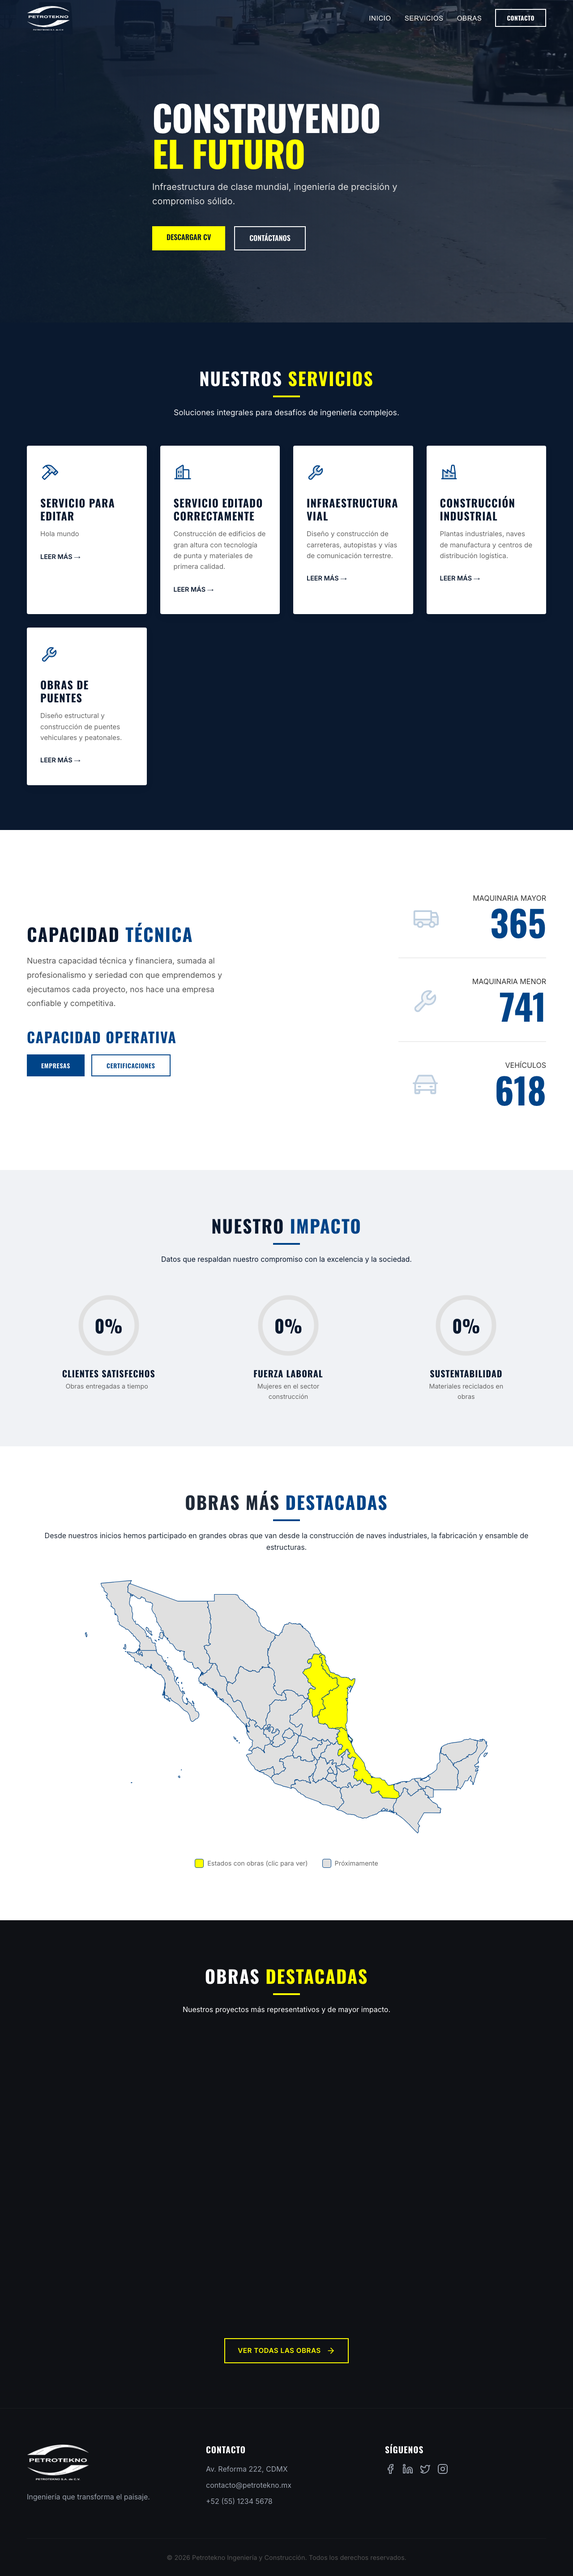
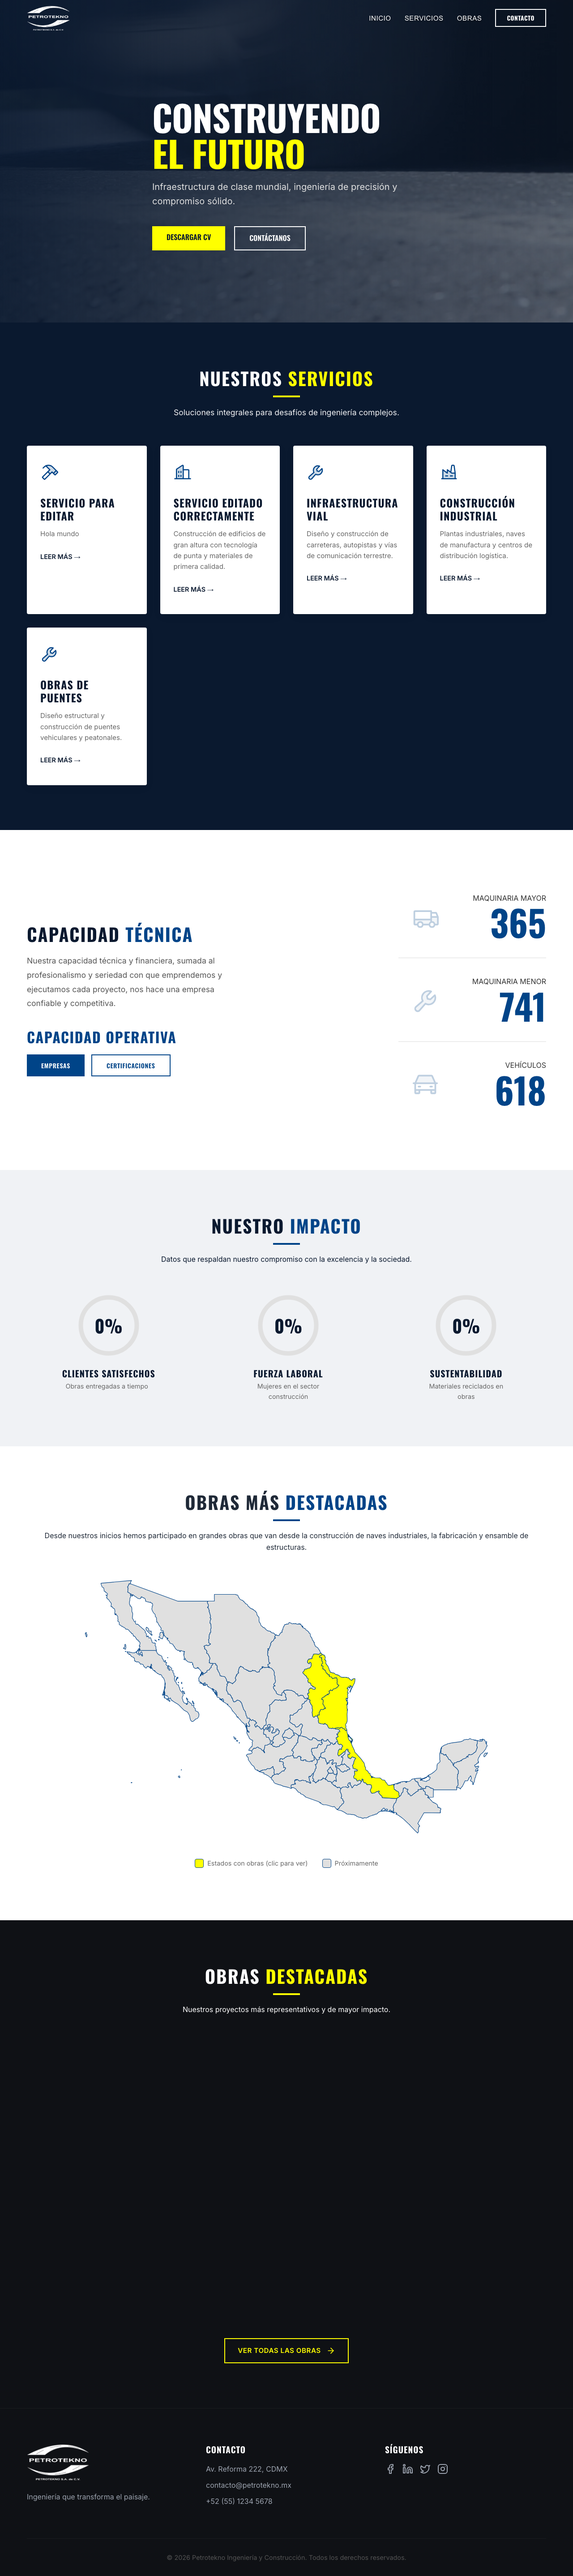
feat: update README and screenshot generation for Obras and Servicios; add new configuration screenshots

Changed region(s): [[0.5625, 0.0, 1.0, 0.1245], [0.25, 0.0623, 0.4062, 0.1245]]

diff --git a/petrotekno-cms/playwright-report/index.html b/petrotekno-cms/playwright-report/index.html
@@ -82,4 +82,4 @@ Error generating stack: `+n.message+`
     <div id='root'></div>
   </body>
 </html>
[2 lines of base64/hex data omitted]

diff --git a/README.md b/README.md
@@ -193,9 +193,17 @@ Consulta la documentación detallada en la carpeta `docs/`:
 
 ### Backend (CMS)
 
-| Dashboard | Editor de Obras |
-|-----------|-----------------|
-| ![Dashboard](docs/screenshots/panel-dashboard.png) | ![Editor](docs/screenshots/panel-obras-editor.png) |
+| Dashboard | Configuración |
+|-----------|---------------|
+| ![Dashboard](docs/screenshots/panel-dashboard.png) | ![Configuración](docs/screenshots/panel-configuracion.png) |
+
+| Lista de Obras | Editor de Obras |
+|----------------|-----------------|
+| ![Lista Obras](docs/screenshots/panel-obras-list.png) | ![Editor Obras](docs/screenshots/panel-obras-editor.png) |
+
+| Lista de Servicios | Editor de Servicios |
+|--------------------|---------------------|
+| ![Lista Servicios](docs/screenshots/panel-servicios-list.png) | ![Editor Servicios](docs/screenshots/panel-servicios-editor.png) |
 
 ### Frontend (Público)
 
